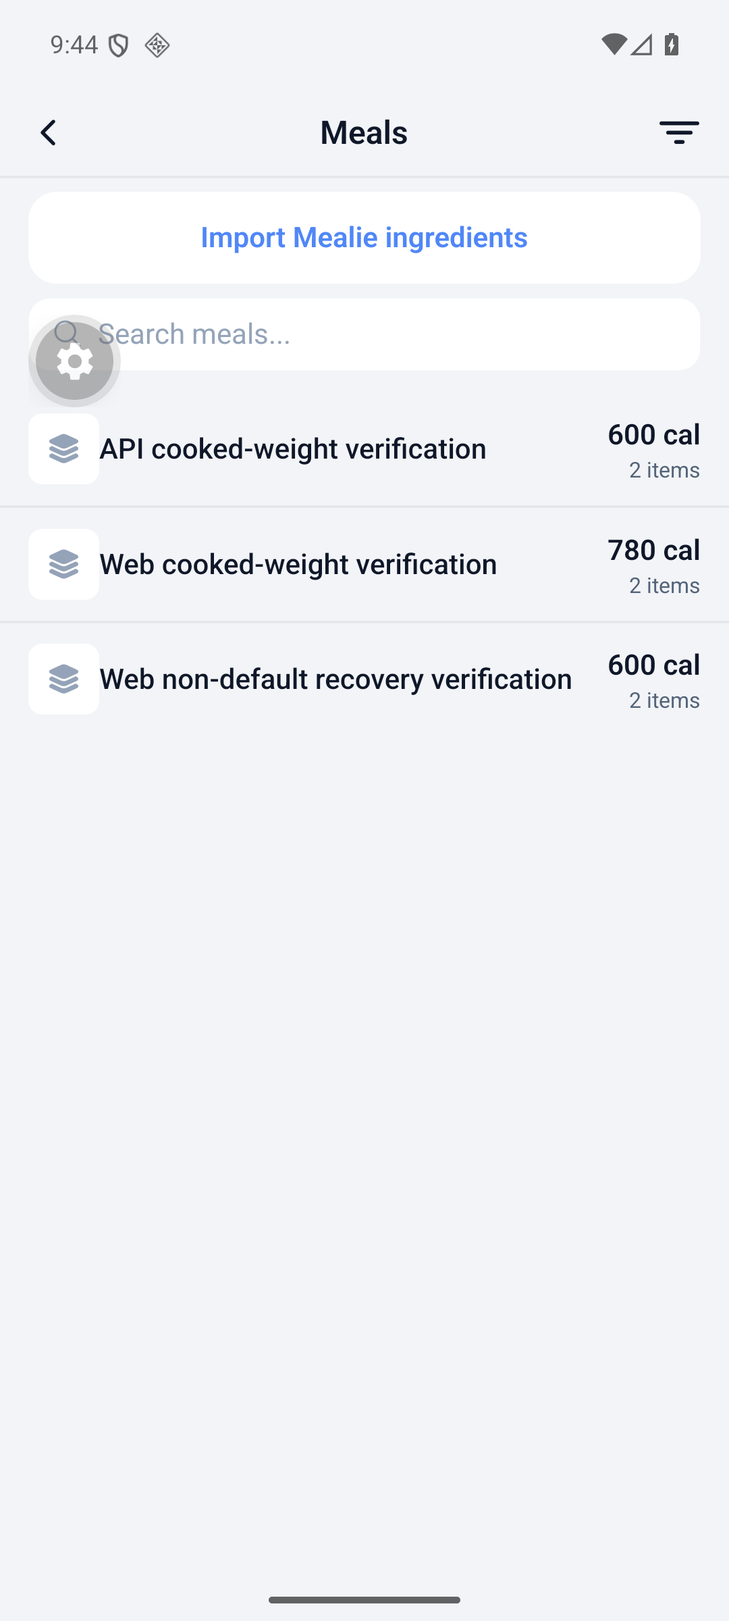
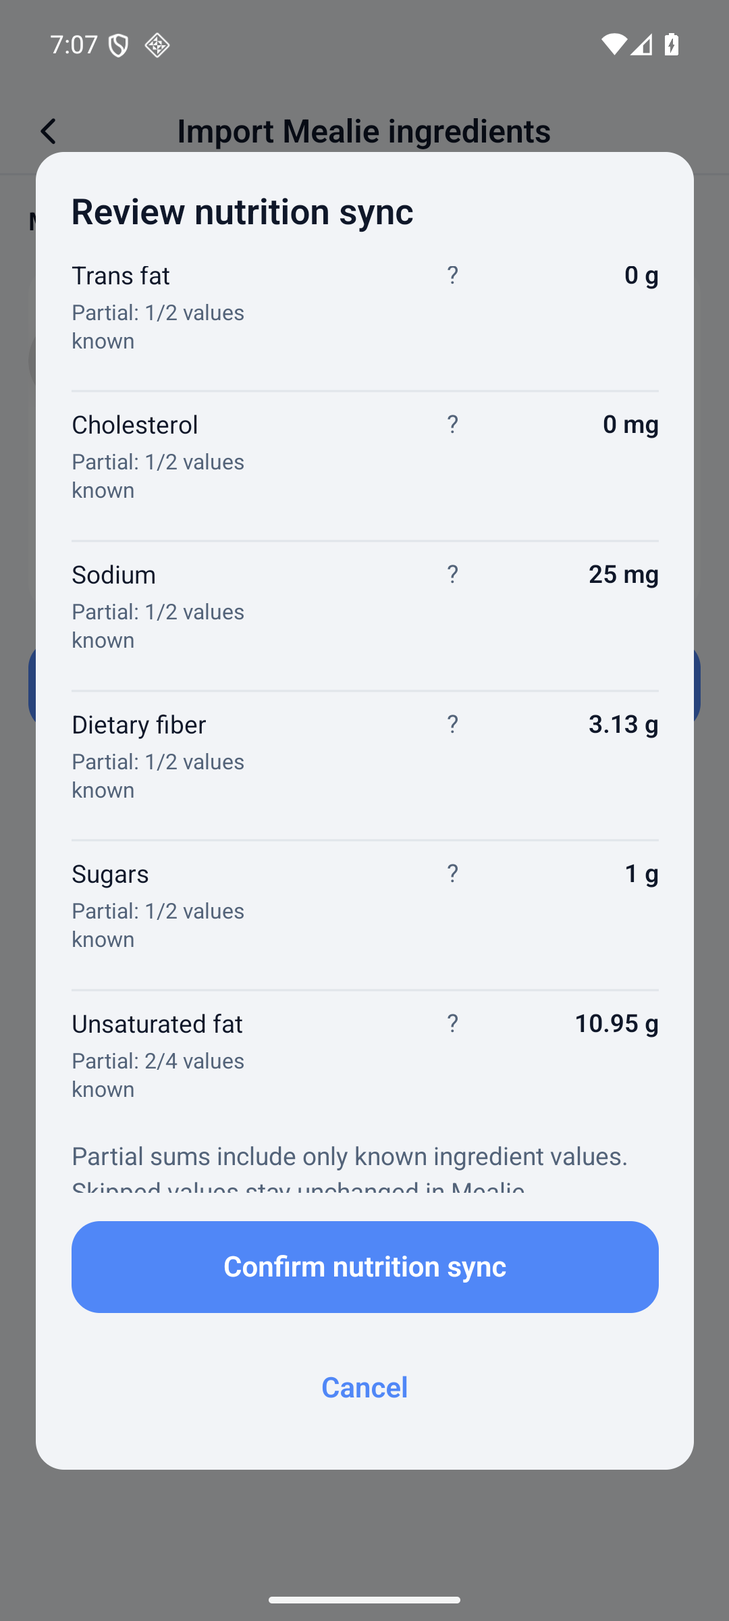
docs(mealie): refresh ingredient import and nutrition sync examples

diff --git a/SparkyFitnessServer/AGENTS.md b/SparkyFitnessServer/AGENTS.md
@@ -1,6 +1,6 @@
 # AGENTS.md
 
-_Last updated: 2026-11-11_
+_Last updated: 2026-11-12_
 
 SparkyFitness Server is the backend API package for the SparkyFitness monorepo. Use this file as the primary guide for work inside `SparkyFitnessServer/`.
 
@@ -97,7 +97,7 @@ pnpm exec eslint routes/v2/foodRoutes.ts services/foodCoreService.ts
 - Route generation endpoints (routeRoutes.ts): see [source-map.md](agent-docs/source-map.md#route-generation-endpoints-routeroutests).
 - Run program routes (runProgramRoutes.ts): see [source-map.md](agent-docs/source-map.md#run-program-routes-runprogramroutests).
 - `routes/v2/runGoalRoutes.ts` - the person's running goals (`/api/v2/run-goals`: `GET`, `PUT` where only the fields sent change and null clears one): a weekly distance target (`weekly_distance_km`) and a race (`race_name`, `race_date`, `race_distance_km`), one `run_goals` row per user, owner-only (`requireSelfActor`, `run_goals` owner policy). `GET` also returns `progress` from `services/runGoalService.ts`: this week's logged running kilometres (the week starts on the account's `first_day_of_week`, "today" is the profile timezone), the share of the target, the daily distance still needed, and the days to the race, all worked out by the pure shared `buildRunGoalProgress` (`../shared/src/utils/runGoals.ts`). Only entries `classifyActivitySport` reads as running count, from `exercise_entries.distance` (km) with the name, category and notes; the provider sport enum in `exercise_entry_activity_details` is not consulted. A race name or distance without a race day is refused by the table check `chk_run_goals_race_has_date` (400). The contract is `../shared/src/schemas/api/RunGoals.api.zod.ts`; the repository is `models/runGoalRepository.ts`
-- `routes/v2/recipeImportRoutes.ts` - owner-only Mealie ingredient browse/preview/suggest/save/source/sync, with shared `RecipeImport.api.zod.ts` contracts and private provenance/mappings.
+- `routes/v2/recipeImportRoutes.ts` - owner-only Mealie ingredient browse/preview/suggest/save/source/sync and saved-mapping list/delete, with shared `RecipeImport.api.zod.ts` contracts and private provenance/mappings.
 - `routes/v2/heartRateZoneRoutes.ts` - the person's heart rate zone settings (`GET`/`PUT /api/v2/heart-rate-zones`; max and resting heart rate, `percent_max` / `heart_rate_reserve` / `custom` method, custom floors, `display_zones` 4 or 5 for how many bands clients show (column `hr_zone_display_count`; display only); `reset: true` restores defaults). Owner-only (`requireSelfActor`, also on reads). Logic in `services/heartRateZoneService.ts` over `models/heartRateZoneRepository.ts` (columns on `user_preferences`); `resolveZonesForUser(userId, observedMaxBpm?)` is what stored time in zone (`healthDataHandlers.persistWorkoutTelemetry`, `exerciseEntryService.attachWatchTelemetryToExerciseEntry`) and training load use. Zone maths is `../shared/src/utils/heartRateZones.ts`; the contract is `../shared/src/schemas/api/HeartRateZones.api.zod.ts`. Stored `exercise_entry_hr_zones` rows carry `zone_method` (`device` for Garmin) and are never recomputed when settings change.
 - `routes/v2/fitnessTestRoutes.ts` - running fitness tests (`/api/v2/fitness-tests`: `GET` the list newest first, `GET /latest`, `POST` to save, `DELETE /:id`); owner-only (`requireSelfActor`, `fitness_tests` owner policy), so a switched/delegated context gets 403. The body carries only the measurements (`test_type` `5k` / `30min` / `cooper`, `test_date`, `distance_meters`, `duration_seconds`, `split_distance_meters` for the 30-minute run, optional `exercise_entry_id`); `models/fitnessTestRepository.ts` works the result and paces out with the shared `evaluateFitnessTest` (`../shared/src/utils/fitnessTest.ts`, built on `paceZones.ts` and `racePaceZones.ts`), stores them in `paces` JSONB (a treadmill test also stores `surface`, `incline_percent` and `incline_adjusted`; the incline correction is `applyIncline` in shared, applied inside `evaluateFitnessTest`, and the stored distance and time stay as measured), checks the entry is the person's and upserts on `exercise_entry_id` (partial unique index) so a retried save never files a test twice; deleting the activity sets `exercise_entry_id` to null and keeps the test. The assistant reads them through the read-only `get_fitness_tests` action of `sparky_manage_run_program` (listed in `ai/mcp/toolAccess.ts`); the contract is `../shared/src/schemas/api/FitnessTest.api.zod.ts`
 - `routes/v2/mindfulnessRoutes.ts` - mindfulness & meditation sessions tracking (`checkin` permission): day summaries (`/day-summary`), session logs and telemetry (`/entries`, `/entries/:id`). Logic lives in `models/mindfulnessRepository.ts`; the request/response contract is `../shared/src/schemas/api/Mindfulness.api.zod.ts`
@@ -296,7 +296,7 @@ When searching, ignore noisy/generated directories unless you explicitly need th
 
 ## Quick Routing
 
-- Mealie ingredient meals: `routes/v2/recipeImportRoutes.ts` (all endpoints owner-only), `services/recipeImportService.ts`, `recipeImportMath.ts` and `recipeImportMealSnapshot.ts`, `models/recipeImportRepository.ts`; shared contract `RecipeImport.api.zod.ts`. Source provenance and reusable mappings are Tier 1. Meal creation reuses `mealRepository.createMeal` inside the provenance transaction. Mealie standard factors normalize source units; reviewed food/unit mappings can remember cross-category quantities. Provider suggestions run at most four ingredient lookups concurrently. `GET /:mealId/sync-preview` compares current saved nutrition with current Mealie servings; explicit sync rechecks its confirmation fingerprint and PATCHes nutrition only, without permanently locking edited meals or requiring reimport.
+- Mealie ingredient meals: `routes/v2/recipeImportRoutes.ts` (all endpoints owner-only), `services/recipeImportService.ts`, `recipeImportMath.ts` and `recipeImportMealSnapshot.ts`, `models/recipeImportRepository.ts`; shared contract `RecipeImport.api.zod.ts`. Source provenance and reusable mappings are Tier 1. Remembered mappings are unconfirmed suggestions; owner/provider-scoped list/delete preserves meals and diary snapshots. Recipe browsing delegates to existing Mealie food search, including its empty-query listing; `MealieService.getRecipeDetails` supplies shared validated reads for both imports and food details. Nutrition sync explicitly reads saved ingredient snapshots without the ordinary meal-view live-variant fallback, sums known optional values and exposes coverage, every supported write/skip and the saved meal timestamp. Meal creation reuses `mealRepository.createMeal` inside the provenance transaction. Mealie standard factors normalize source units; reviewed food/unit mappings can remember cross-category quantities. Provider suggestions run at most four ingredient lookups concurrently. `GET /:mealId/sync-preview` compares current saved nutrition with current Mealie servings; explicit sync rechecks its confirmation fingerprint and PATCHes nutrition only, without permanently locking edited meals or requiring reimport.
 
 - Weekly weight-change calorie goals: `services/preferenceService.ts` validates the signed `goal_mode_weekly_change_kg` preference (negative loses, positive gains; active only for `goal_mode = 'weekly'`), `models/preferenceRepository.ts` persists it, and `services/goalService.ts` plus `services/calorieBalanceService.ts` pass it to the shared calorie adjustment functions. Device Projection applies the daily weekly-rate adjustment once to device TDEE; percentage goals keep their existing behavior.
 

diff --git a/docs/src/features/settings/external-providers.md b/docs/src/features/settings/external-providers.md
@@ -38,11 +38,11 @@ SparkyFitness supports integration with the following health and fitness data pr
 Mealie recipes can be imported as editable meals with separate ingredients. The existing option to import a recipe as a single food remains available.
 
 1. Add an active Mealie provider under **Settings → Food & Exercise Data Providers**, using your Mealie instance URL and API token.
-2. Open your meals library and choose **Import Mealie ingredients**. Select the provider and recipe.
-3. Match each ingredient to a food with nutrition data. You can search manually or request suggestions. Optional AI matching uses your configured AI service to choose from retrieved foods; review each selection before saving. The numbered rows distinguish the Mealie ingredient from its selected food and amount. Saved choices are reused for the same Mealie food and unit across recipes; check them for the current preparation.
+2. Open your meals library and choose **Import Mealie ingredients**. Select the provider and recipe. Results use the food search and show declared nutrition per Mealie serving. For a recipe with no declared nutrition, its food details also offer **Import ingredients as a meal**.
+3. Match each ingredient to a food with nutrition data. You can search manually or request suggestions. Optional AI matching uses your configured AI service to choose from retrieved foods; review each selection before saving. The numbered rows distinguish the Mealie ingredient from its selected food and amount. Saved choices are suggestions for the same Mealie food and unit across recipes and require confirmation for this import. Use **Forget saved choice** on a row or **Manage saved choices** in the recipe browser to remove a remembered match; this does not change saved meals or diary entries.
 4. Check the quantities and units for the whole recipe. For weighed portions, enter the finished weight of the entire cooked dish in grams, without the pot. Save the meal, then log the amount you ate through the normal meal diary.
 
-Missing amounts, incompatible units and linked sub-recipes are shown for review. SparkyFitness does not guess a volume-to-weight conversion. Recipes containing a linked sub-recipe require its ingredients to be listed explicitly in Mealie before import. Missing optional nutrients remain unknown rather than becoming zero.
+Missing amounts, incompatible units and linked sub-recipes are shown for review. An amount-like note such as **1 Cup Flour** is flagged as a possible additional ingredient; review the note separately rather than assuming it is already included in the selected food. SparkyFitness does not guess a volume-to-weight conversion. Recipes containing a linked sub-recipe require its ingredients to be listed explicitly in Mealie before import. Known optional nutrient values are summed even when other ingredients leave that nutrient blank; entirely unknown totals remain unknown.
 
 Every selected food variant needs known **calories, protein, carbohydrates and fat** before saving; a measured zero is valid. Incomplete mappings stay editable: choose a complete variant or correct the food's nutrition, then review it again. Unknown optional nutrients do not prevent import or sync and are not written as zero.
 
@@ -52,7 +52,7 @@ If saving times out or returns an uncertain server error, check the meals librar
 
 ### Updating nutrition in Mealie
 
-Saving or editing a meal does not write to Mealie. Use **Sync nutrition to Mealie** to preview the current saved meal's nutrition against the current Mealie recipe and its serving count. Review the current and proposed values, then choose **Confirm nutrition sync**, or cancel without writing. Your Mealie token must permit recipe updates.
+Saving or editing a meal does not write to Mealie. Use **Sync nutrition to Mealie** to preview the current saved meal's nutrition against the current Mealie recipe and its serving count. The preview lists every supported nutrient, marks partial ingredient coverage, and explains fields that will be skipped. It identifies the saved meal and its save time: correcting a food in your library does not silently replace these saved ingredient values. To include a correction, replace the affected ingredient using the corrected food variant (remove and add it again), check the resulting values, then save the meal. Review the current and proposed values, then choose **Confirm nutrition sync**, or cancel without writing. Your Mealie token must permit recipe updates.
 
 Reviewed cross-unit mappings and later edits to the saved meal do not permanently block sync. If the recipe changed in Mealie, the preview explains that change and lets you confirm its current values without importing again. If either the saved meal or the source changes while confirmation is open, refresh the preview and confirm again. Known calories, protein, carbohydrates and fat, individual saved food ingredients and a positive current Mealie serving count are required. Older clients can still explicitly sync an unchanged source; changed sources require the preview-capable client.
 
@@ -64,11 +64,13 @@ If the remote result cannot be confirmed, inspect the recipe in Mealie before tr
 
 ::: details Android example with a test recipe
 
-The ingredient import is available from the meals library. In this example, the saved whole dish weighs **1,800 g** and contains **2,400 kcal**. Logging **450 g** through the normal meal flow records **600 kcal**.
+The ingredient import is available from the meals library or a Mealie food without declared nutrition. This synthetic recipe includes a blank fiber value and an ingredient with **12.5 g** of fiber; the sync preview marks that total as partial. The saved whole dish weighs **1,800 g** and contains **700 kcal**. Logging **450 g** through the normal meal flow records **175 kcal**.
 
-![Mealie ingredient import in the Android meals library](/integrations/mealie/ingredients-after.png)
+![Mealie ingredients before confirming their food matches](/integrations/mealie/ingredients-before.png)
 
-![A 450 g portion calculated as 600 kcal](/integrations/mealie/weighed-portion.png)
+![Partial nutrient totals in the Android nutrition sync preview](/integrations/mealie/ingredients-after.png)
+
+![A 450 g portion calculated as 175 kcal](/integrations/mealie/weighed-portion.png)
 
 :::
 

diff --git a/shared/AGENTS.md b/shared/AGENTS.md
@@ -1,6 +1,6 @@
 # AGENTS.md
 
-_Last updated: 2026-11-11_
+_Last updated: 2026-11-12_
 
 `@workspace/shared` is a source-first TypeScript workspace library package for schemas, constants, and timezone/day helpers consumed by SparkyFitnessServer, SparkyFitnessFrontend, and SparkyFitnessMobile.
 
@@ -16,7 +16,7 @@ _Last updated: 2026-11-11_
 
 ## Structure
 
-- Mealie ingredient imports: `utils/recipeImport.ts` preserves explicit compatible quantities, bounds unresolved matching batches to twenty rows, and merges suggestions without replacing confirmed mappings in web and mobile. The API contract remains in `schemas/api/RecipeImport.api.zod.ts`.
+- Mealie ingredient imports: `utils/recipeImport.ts` preserves explicit compatible quantities, bounds unresolved matching batches to twenty rows, adapts normalized Mealie food search for recipe browsing, and merges suggestions without replacing confirmed mappings in web and mobile. The API contract remains in `schemas/api/RecipeImport.api.zod.ts`.
 
 - `src/glucose/context.ts` - shared glucose context loading and timezone-aware day projection for web/mobile. Reads use the canonical API contracts; independent source failures retain successful layers. `src/constants/bloodGlucose.ts` defines display units and conversion, and `src/utils/measurementTimeline.ts` preserves timestamped readings and sensor gaps. `src/schemas/api/SleepEntries.api.zod.ts` derives serialized sleep responses from the database schema.
 
@@ -41,7 +41,7 @@ _Last updated: 2026-11-11_
 - `src/compare/` - compare any two tracked things: `stats.ts` (statistics), `metrics.ts` (metric catalog: kind, missing-day rule, weekly form, `rolling` for a value read over the 7 days ending on the day, and `since: false` for a metric since mode cannot answer honestly (weight trend); `offeredInMode(key, mode)` is the check for whether a metric is offered by day, week or since), `analyze.ts` (day and week-by-week analysis), `since.ts` (before vs. since a habit started: suggested start, stretches, regularity, pre-trend; its limits are exported as `SINCE_*` constants), `question.ts` (the question model web and mobile share: timing choices, spans and `compareWindow`, custom-range limits, since-start bounds, `SUGGESTED_QUESTIONS`, and the recents helpers `knownCompareQuestions` / `withRecentQuestion`, and `questionForMode`, which drops a chosen metric the mode doesn't offer), `chartData.ts` (chart data both apps draw: `pairedDots` and `displayDots`, `trendLine`, `overTimeData`, `sinceChartData`), `sinceLine.ts` (`sinceLineOptions`: the lines offered for a since answer, with the label formatter passed in so the wording stays in each app), `sinceVerdict.ts` (`sinceVerdictCase`: which since answer to give, as a text-free case with the facts its wording needs (no start, not enough with the short side and why, changed, no clear change, and whether it covers the last year); `sinceAlreadyChanging` and `sinceCoversLastYear`; the phone's and the website's `compareSinceCopy.ts` word each case). The API contract is `src/schemas/api/Compare.api.zod.ts`.
 - `src/symptoms/` - generic symptom tracking: constants and enums (scales, templates, sections, option kinds), template section resolution (`resolveSections`), built-in symptoms and pick-lists, head/body region ids for the location maps, custom-field validation, and `symptomEntryDays` (`entryDays.ts`: the days of a window an entry covers, its `entry_date` plus, for an episode, every day from its start to its end or to today in the profile timezone; the web and mobile symptom calendars use it with the list endpoint's `overlapping` flag, so an episode shows on each of its days). The API contract is `src/schemas/api/Symptoms.api.zod.ts`.
 
-- Recipe ingredient imports: `src/schemas/api/RecipeImport.api.zod.ts` defines camelCase preview/save/suggestion/source and nutrition-confirmation contracts. `RecipeImports.zod.ts` and `RecipeFoodMappings.zod.ts` mirror owner-only source provenance and confirmed mappings. `utils/recipeImport.ts` shares numeric/unknown nutrition handling and current/proposed sync comparisons. Both clients consume these; external food selections must use existing detail/import and supply accessible local IDs before save.
+- Recipe ingredient imports: `src/schemas/api/RecipeImport.api.zod.ts` defines camelCase preview/save/suggestion/source and nutrition-confirmation contracts. `RecipeImports.zod.ts` and `RecipeFoodMappings.zod.ts` mirror owner-only source provenance and confirmed mappings. `utils/recipeImport.ts` shares numeric/unknown nutrition handling, unconfirmed saved choices, amount-like note detection, and the complete supported write/skip comparison. Sync previews include optional coverage and saved-meal provenance; saved-mapping management contracts remain owner-scoped. Both clients consume these; external food selections must use existing detail/import and supply accessible local IDs before save.
 
 ## Naming Convention
 

diff --git a/SparkyFitnessFrontend/AGENTS.md b/SparkyFitnessFrontend/AGENTS.md
@@ -1,6 +1,6 @@
 # AGENTS.md
 
-_Last updated: 2026-11-11_
+_Last updated: 2026-11-12_
 
 SparkyFitness Frontend is the React web app for the SparkyFitness monorepo. Use this file as the primary guide for work inside `SparkyFitnessFrontend/`.
 
@@ -48,7 +48,7 @@ Features are organized by domain, and the same domain folder name appears in `sr
 
 ## Source Map
 
-- Mealie ingredient meals: `pages/Foods/RecipeImportDialog.tsx` browses configured sources, `RecipeImportReview.tsx` reviews whole-recipe amounts and cooked weight, and `RecipeImportIngredientRow.tsx` reuses food search/import/unit selection. `hooks/Foods/useRecipeImport.ts` guards confirmed mappings and batches matching requests (20 rows); `hooks/Foods/useRecipeImportQueries.ts` owns owner-scoped browsing, food lookups and source sync; `api/Foods/recipeImportService.ts` consumes shared RecipeImport contracts. `RecipeImportSourcePanel.tsx` and `RecipeImportSyncConfirmation.tsx` review current nutrition before explicit writeback from saved meals and ordinary meal edit/details; 404 means an ordinary meal, and owner-only panels unmount on profile switches. Recipe unit selection opts into preserving source amounts across compatible units and requires explicit incompatible amounts. Existing quick-food recipe import remains separate.
+- Mealie ingredient meals: `pages/Foods/RecipeImportDialog.tsx` browses configured sources, `RecipeImportReview.tsx` reviews whole-recipe amounts and cooked weight, and `RecipeImportIngredientRow.tsx` reuses food search/import/unit selection. `hooks/Foods/useRecipeImport.ts` guards confirmed mappings and batches matching requests (20 rows); `hooks/Foods/useRecipeImportQueries.ts` owns owner-scoped browsing, direct recipe previews, saved-choice management, food lookups and source sync; `RecipeImportSavedMappings.tsx` lists/forgets private suggestions. Browser cards reuse `FoodResultCard` and `useFoodResultNutrientConfig` from normal food search; `api/Foods/recipeImportService.ts` consumes shared RecipeImport contracts. `RecipeImportSourcePanel.tsx` and `RecipeImportSyncConfirmation.tsx` review current nutrition before explicit writeback from saved meals and ordinary meal edit/details; 404 means an ordinary meal, and owner-only panels unmount on profile switches. Recipe unit selection opts into preserving source amounts across compatible units and requires explicit incompatible amounts. Existing quick-food recipe import remains separate.
 
 - Food assistant state: owner-only preferences, recoverable tasks and operation history use `FoodAssistant.api.zod.ts` / `FoodAssistant.zod.ts` in shared. Server: `routes/v2/foodAssistantRoutes.ts`, `services/foodAssistantService.ts`, `models/foodAssistantRepository.ts`, `ai/tools/foodAssistantTools.ts`. Web: `src/components/ai/FoodAssistantState.tsx`, `src/api/Chatbot/foodAssistantService.ts`.
 
@@ -102,7 +102,7 @@ When searching, ignore `node_modules/`, `dist/`, and every locale except `public
 
 ## Quick Routing
 
-- Import Mealie ingredients from the Meals library action in `MealManagement.tsx`. Original ingredient amounts are whole-recipe totals; optional finished cooked grams only define normal meal serving size. AI candidates require explicit review and local food/variant IDs. Saving creates an ordinary meal; source sync has independent pending/error/success state and must preserve a successful local save. Private recipe data and operations stay disabled while acting on behalf.
+- Import Mealie ingredients from the Meals library action in `MealManagement.tsx` or the no-nutrition food-details link. `MealManagement` validates and consumes the provider/recipe query parameters, then opens the ordinary saved-meal editor. Remembered mappings require explicit confirmation for each import. Original ingredient amounts are whole-recipe totals; optional finished cooked grams only define normal meal serving size. AI candidates require explicit review and local food/variant IDs. Saving creates an ordinary meal; source sync has independent pending/error/success state and must preserve a successful local save. Private recipe data and operations stay disabled while acting on behalf.
 
 - Glucose / CGM: `pages/Reports/GlucoseCard.tsx` under Reports → Measurements reads `blood_glucose` samples, separates source streams, uses the account `default_glucose_unit` (Preferences → Glucose Unit) for mmol/L or mg/dL display and leaves gaps over 15 minutes. `hooks/Reports/useGlucoseContext.ts` adds independently selectable day context; exercise and sleep show start/end spans. Setup: `docs/src/features/cgm.md`.
 

diff --git a/SparkyFitnessMobile/AGENTS.md b/SparkyFitnessMobile/AGENTS.md
@@ -1,6 +1,6 @@
 # AGENTS.md
 
-_Last updated: 2026-11-09_
+_Last updated: 2026-11-12_
 
 SparkyFitness Mobile is a React Native 0.86 + Expo SDK 57 app for syncing Apple Health / Health Connect data with the SparkyFitness backend, tracking nutrition, hydration, fasting, measurements, exercise, saved foods, meal templates, custom exercises, workout presets, iOS / Android widgets, the active workout HUD, and the Sparky AI chat.
 
@@ -454,7 +454,7 @@ const androidService = require('../../src/services/healthConnectService.ts');
 
 ## Quick Routing
 
-- Mealie ingredient meals: `RecipeImportScreen`, `components/recipeImport/`, `hooks/useRecipeImport.ts`, and `services/api/recipeImportApi.ts` provide personal source browsing, reviewable mapping, cooked batch weight and explicit nutrition writeback after `RecipeImportSyncConfirmation` reviews current values. The meals library opens the flow; own meal detail shows provenance. `recipeImportSelection.ts` carries the existing `FoodSearch` / `FoodEntryAdd` picker handoff, preserving compatible source amounts and requiring explicit incompatible amounts. Shared `utils/recipeImport.ts` owns matching batches, nutrition comparisons and late-confirmation protection. Recipe caches live under ordinary meals/foods invalidation roots and include server/profile scope; family diary routes never expose them.
+- Mealie ingredient meals: `RecipeImportScreen`, `components/recipeImport/`, `hooks/useRecipeImport.ts`, and `services/api/recipeImportApi.ts` provide personal source browsing, reviewable mapping, cooked batch weight and explicit nutrition writeback after `RecipeImportSyncConfirmation` reviews current values. The meals library opens the flow; own meal detail shows provenance. Recipe browsing uses existing normalized food search and `OnlineResultRow`, with `useDebounce` for typed searches. A no-nutrition Mealie food can open its exact recipe using provider/slug plus retained server/profile scope; stale-owner handoffs are discarded. Saved mappings remain unconfirmed suggestions, with row-level forgetting and `RecipeImportSavedMappings` management. `recipeImportSelection.ts` carries the existing `FoodSearch` / `FoodEntryAdd` picker handoff, preserving compatible source amounts and requiring explicit incompatible amounts. Shared `utils/recipeImport.ts` owns matching batches, nutrition comparisons and late-confirmation protection. Recipe caches live under ordinary meals/foods invalidation roots and include server/profile scope; family diary routes never expose them.
 
 - Health sync bug: start at `healthConnectService.ts` or `.ios.ts`, then `services/healthconnect/` or `services/healthkit/`, `backgroundSyncService.ts`, `autoSyncCoordinator.ts`, `useSyncHealthData.ts`, `SyncScreen.tsx`, and `healthDataApi.ts`.
 - Health writeback bug: inspect `HealthDataWriteback`, `services/writeback.ts` / `.ios.ts`, platform writeback modules, mapper files, tracking storage, app permissions, and inbound source filters.
